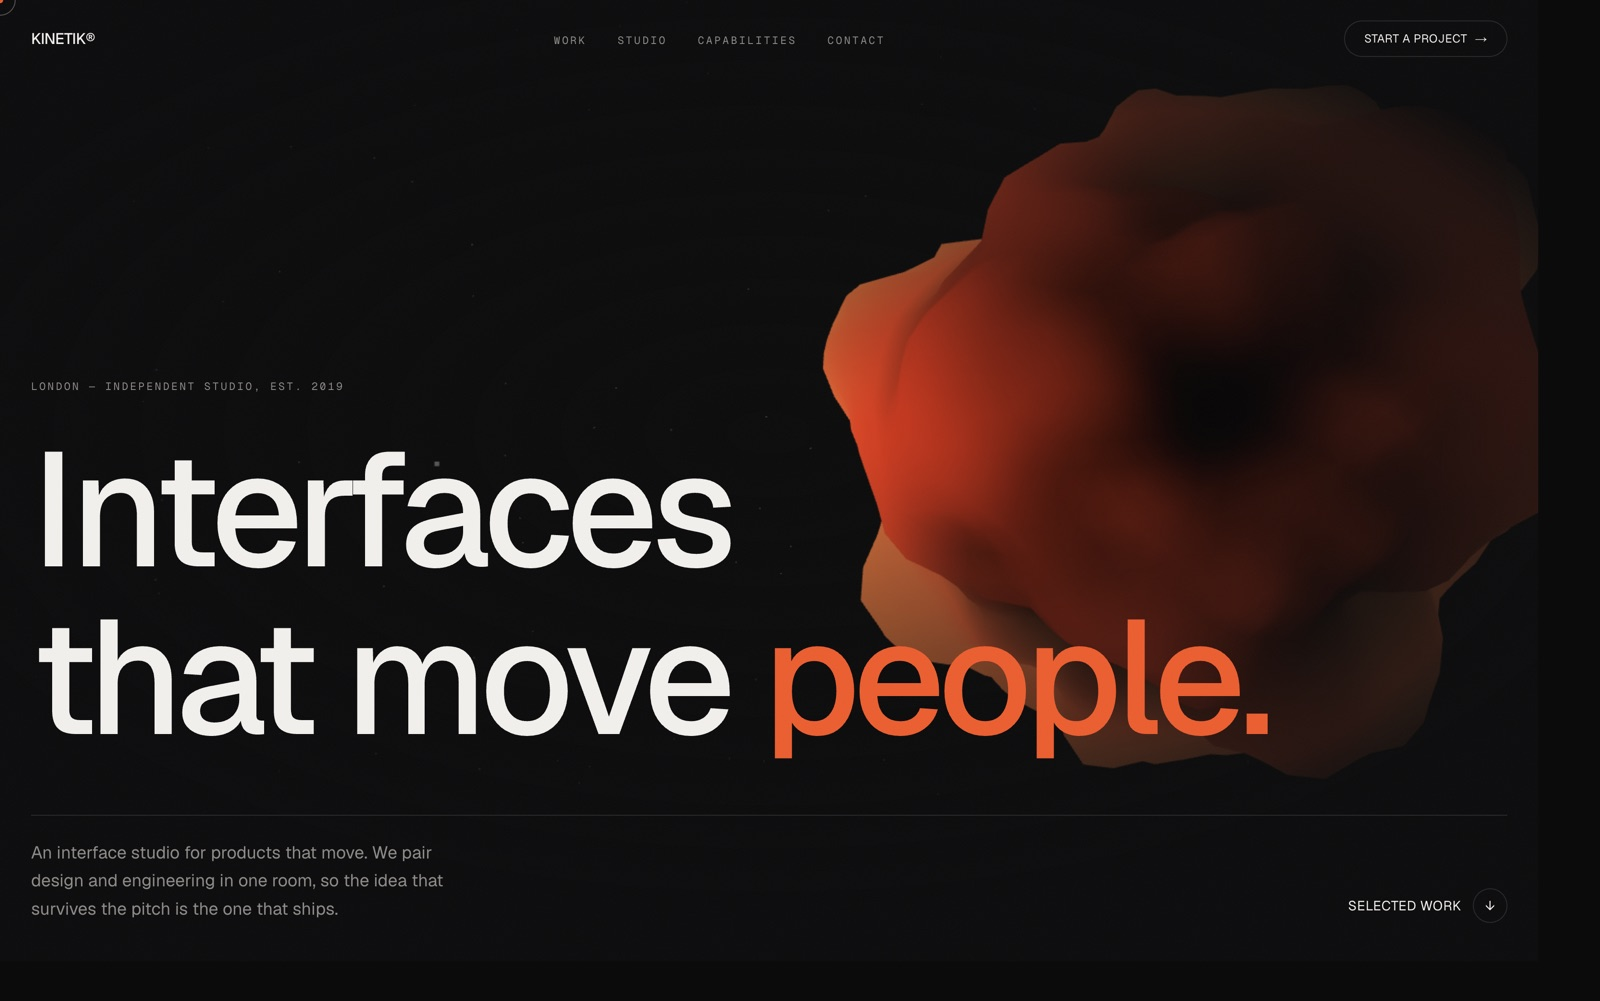
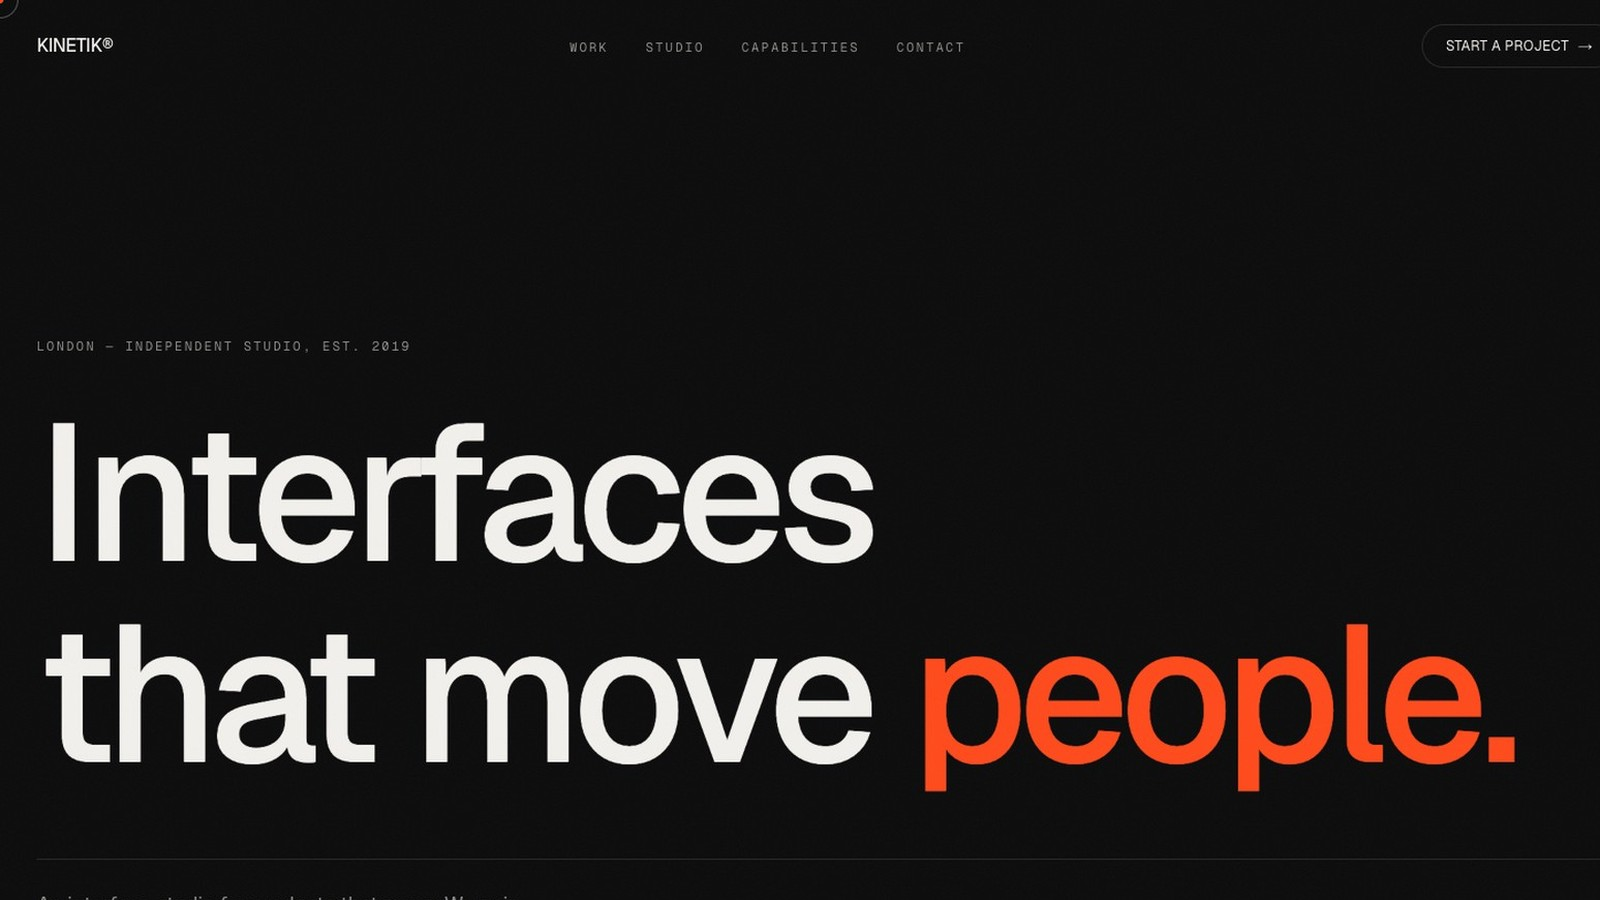
Ship MedLink and RemoteHub in the Websites gallery.

diff --git a/components/websites/WebsiteCard.tsx b/components/websites/WebsiteCard.tsx
@@ -9,7 +9,7 @@ type WebsiteCardProps = {
 
 export function WebsiteCard({ website, className }: WebsiteCardProps) {
   const isLive = website.status === "live" && Boolean(website.url);
-  const canvas = website.mockup.cardBackground ?? "#F4F4F5";
+  const canvas = website.mockup.cardBackground ?? "#0B0B0C";
 
   const body = (
     <>
@@ -22,11 +22,13 @@ export function WebsiteCard({ website, className }: WebsiteCardProps) {
           alt={website.mockup.alt}
           fill
           className={cn(
-            "object-cover object-top transition-transform duration-500 ease-out",
+            "object-cover object-top",
+            "transition-transform duration-500 ease-out",
             isLive && "group-hover:scale-[1.02]",
             "motion-reduce:transition-none motion-reduce:group-hover:scale-100",
           )}
-          sizes="(max-width: 768px) 100vw, 50vw"
+          sizes="(max-width: 768px) 100vw, (max-width: 1024px) 50vw, 33vw"
+          style={{ objectFit: "cover", objectPosition: "top center" }}
         />
         {!isLive ? (
           <span className="absolute inset-0 flex items-center justify-center bg-background/55 backdrop-blur-[2px]">
@@ -36,21 +38,21 @@ export function WebsiteCard({ website, className }: WebsiteCardProps) {
           </span>
         ) : null}
       </div>
-      <div className="p-5 sm:p-6 md:p-7">
-        <div className="flex items-start justify-between gap-3 sm:gap-4">
-          <h3 className="text-base font-medium tracking-tight break-words sm:text-lg md:text-xl">
+      <div className="p-4 sm:p-5">
+        <div className="flex items-start justify-between gap-3">
+          <h3 className="text-sm font-medium tracking-tight break-words sm:text-base">
             {website.title}
           </h3>
           {isLive ? (
             <span
               aria-hidden
-              className="shrink-0 text-muted-foreground transition-transform duration-300 group-hover:translate-x-0.5 group-hover:text-foreground motion-reduce:group-hover:translate-x-0"
+              className="shrink-0 text-muted-foreground opacity-0 transition-[opacity,transform,color] duration-300 group-hover:translate-x-0.5 group-hover:opacity-100 group-hover:text-foreground group-focus-visible:translate-x-0.5 group-focus-visible:opacity-100 motion-reduce:group-hover:translate-x-0"
             >
               →
             </span>
           ) : null}
         </div>
-        <p className="mt-4 text-sm leading-relaxed text-foreground/80">
+        <p className="mt-1.5 text-sm leading-relaxed text-muted-foreground">
           {website.description}
         </p>
       </div>
@@ -58,7 +60,7 @@ export function WebsiteCard({ website, className }: WebsiteCardProps) {
   );
 
   const shellClass = cn(
-    "group block overflow-hidden rounded-2xl border border-border bg-background",
+    "group block overflow-hidden rounded-xl border border-border bg-background",
     "transition-[border-color,box-shadow,transform] duration-300 ease-out",
     isLive &&
       "hover:-translate-y-0.5 hover:border-foreground/20 hover:shadow-md motion-reduce:hover:translate-y-0",

diff --git a/content/websites/index.ts b/content/websites/index.ts
@@ -3,19 +3,48 @@ import type { Website } from "../types";
 export const websites: Website[] = [
   {
     slug: "kinetik-studio",
-    title: "Kinetik® — Interface studio",
-    description:
-      "A concept site for a fictional design studio: WebGL hero, scroll-scrubbed typography, and schematic product mockups. Built with Next.js, GSAP, and Three.js.",
+    title: "Kinetic",
+    description: "Digital design studio",
     mockup: {
       src: "/images/websites/kinetik-studio/mockup.jpg",
-      alt: "Kinetik studio landing page with a WebGL orb behind the headline 'Interfaces that move people'",
+      alt: "Kinetic digital design studio landing page",
       width: 1600,
-      height: 1001,
+      height: 900,
       cardBackground: "#0B0B0C",
     },
     url: "https://studio.hammedshotola.com/kinetik",
     status: "live",
     order: 1,
+  },
+  {
+    slug: "medlink",
+    title: "MedLink",
+    description: "Digital Healthcare Platform",
+    mockup: {
+      src: "/images/websites/medlink/mockup.jpg",
+      alt: "MedLink healthcare platform hero with consultation booking UI",
+      width: 1600,
+      height: 900,
+      cardBackground: "#F5F9FC",
+    },
+    url: "https://studio.hammedshotola.com/medlink",
+    status: "live",
+    order: 2,
+  },
+  {
+    slug: "remotehub",
+    title: "RemoteHub",
+    description: "Modern remote job platform",
+    mockup: {
+      src: "/images/websites/remotehub/mockup.jpg",
+      alt: "RemoteHub job platform homepage with search and remote career messaging",
+      width: 1600,
+      height: 900,
+      cardBackground: "#111118",
+    },
+    url: "https://studio.hammedshotola.com/remotehub",
+    status: "live",
+    order: 3,
   },
 ];
 

diff --git a/app/websites/page.tsx b/app/websites/page.tsx
@@ -47,7 +47,7 @@ export default function WebsitesPage() {
         <Reveal>
           <WebsitesHero />
         </Reveal>
-        <ul className="mt-12 grid gap-5 sm:mt-16 sm:gap-6 md:grid-cols-2 md:gap-8">
+        <ul className="mt-12 grid gap-4 sm:mt-16 sm:gap-5 md:grid-cols-2 lg:grid-cols-3 lg:gap-6">
           {sites.map((website, index) => (
             <li key={website.slug}>
               <Reveal delayMs={index * 60}>
